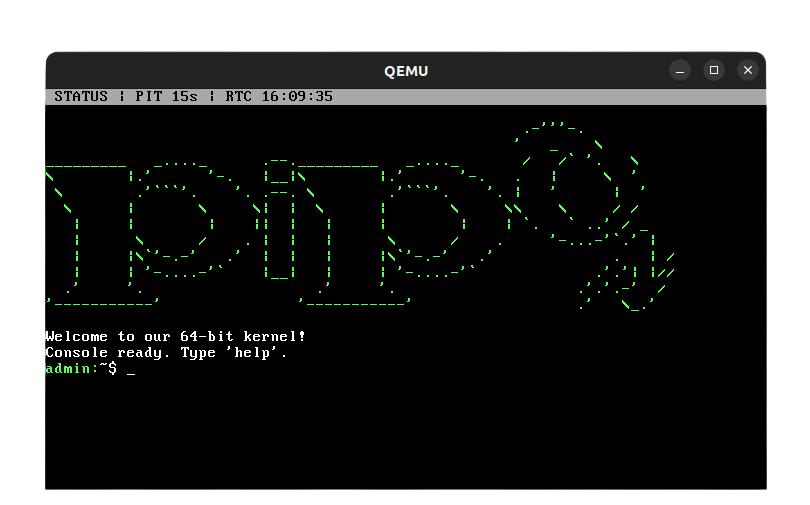
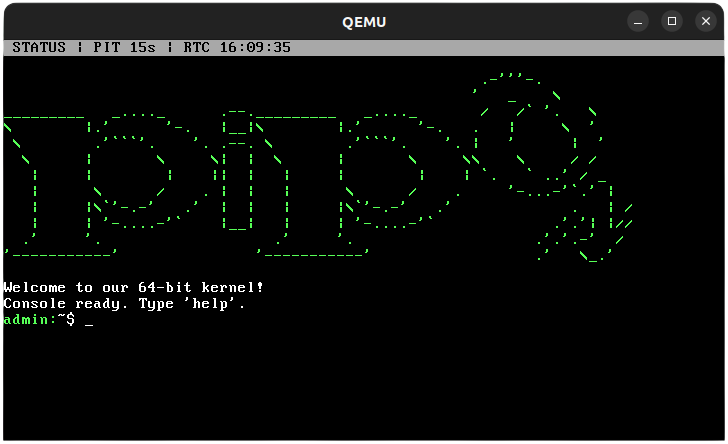
readme update

diff --git a/README.md b/README.md
@@ -2,7 +2,7 @@
 
 ![PipOS loading screen](ext_src/pic/loading_screen.png)
 
-PipOS is a small x86_64 hobby kernel with a text-mode interface, a built-in shell, a RAM-backed filesystem, and a custom text editor (`nat`).
+PipOS is a small x86_64 kernel project with a text-mode interface, a built-in shell, a RAM-backed filesystem, and a custom text editor (`nat`).
 It is written mostly in C, with a small amount of x86_64 assembly where low-level entry points are required.
 
 ## Features
